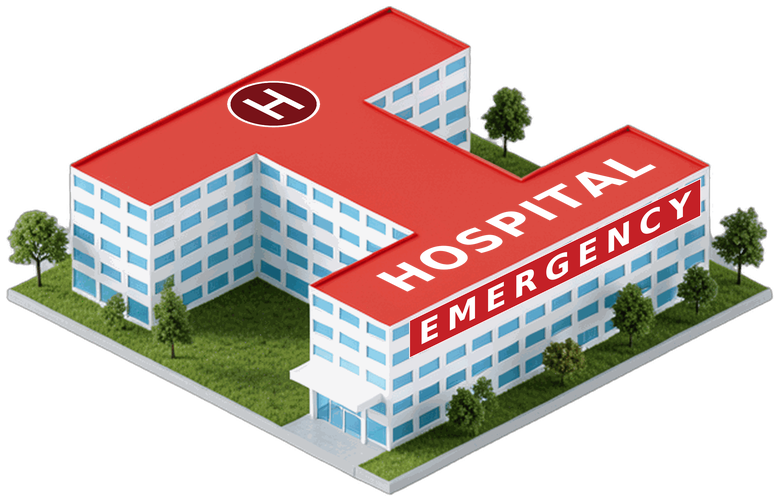
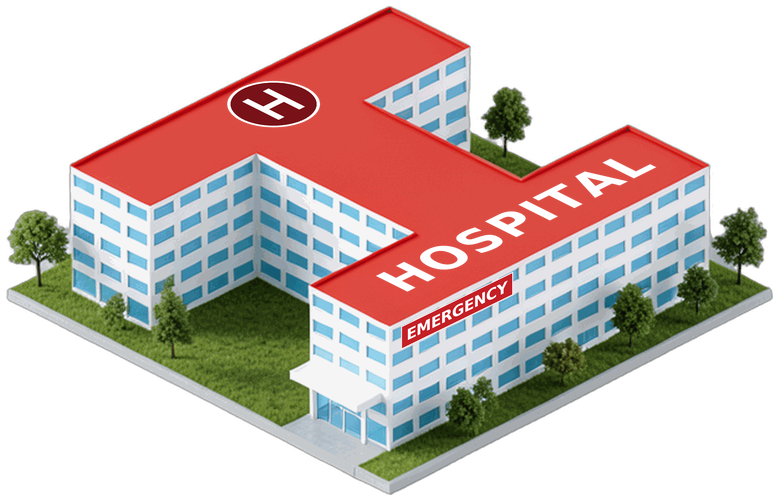
Hôpital: EMERGENCY réduit, HOSPITAL conservé
Claude-Session: https://claude.ai/code/session_01GArnKYW6kkDaRqVDc5pfp5

Changed region(s): [[0.4923, 0.3586, 0.9231, 0.7171]]

diff --git a/tools/factory_ai/RETOURS.md b/tools/factory_ai/RETOURS.md
@@ -191,3 +191,6 @@ Livrés, sans texte, marge 6 px, QA asset_qa : pente 0,50, débordement 0 % (mé
 ## Retour de Rémy (3) : hôpital et pharmacie
 - Hôpital : « HOSPITAL » en blanc peint sur le toit de l'aile avant ; héliport (disque sombre, anneau et H blancs) sur le toit de l'aile arrière ; « EMERGENCY » agrandi (bandeau rouge, lettres blanches) sur la plus longue façade visible. Texte incrusté en perspective isométrique à partir du sprite sans texte (arbres et plan inchangés).
 - Pharmacie : croix verte rendue lumineuse façon néon (teinte vive, relief conservé, léger halo), arbres inchangés.
+
+## Retour de Rémy (4) : EMERGENCY réduit
+- Hôpital : « EMERGENCY » ramené à un petit bandeau (≈110 px) près de l'entrée au lieu de toute la longueur de la façade ; « HOSPITAL » sur le toit et héliport conservés.
